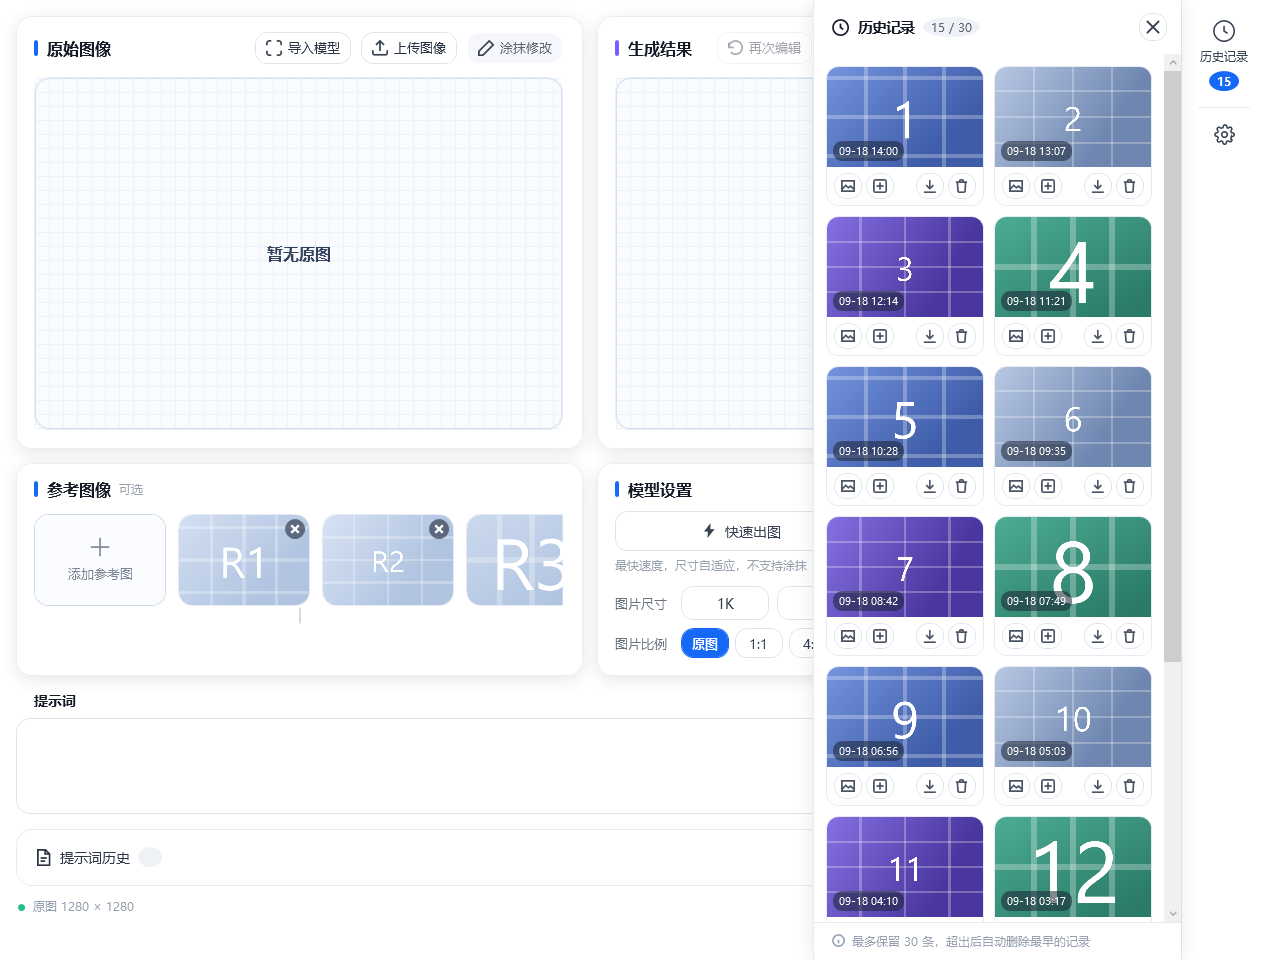
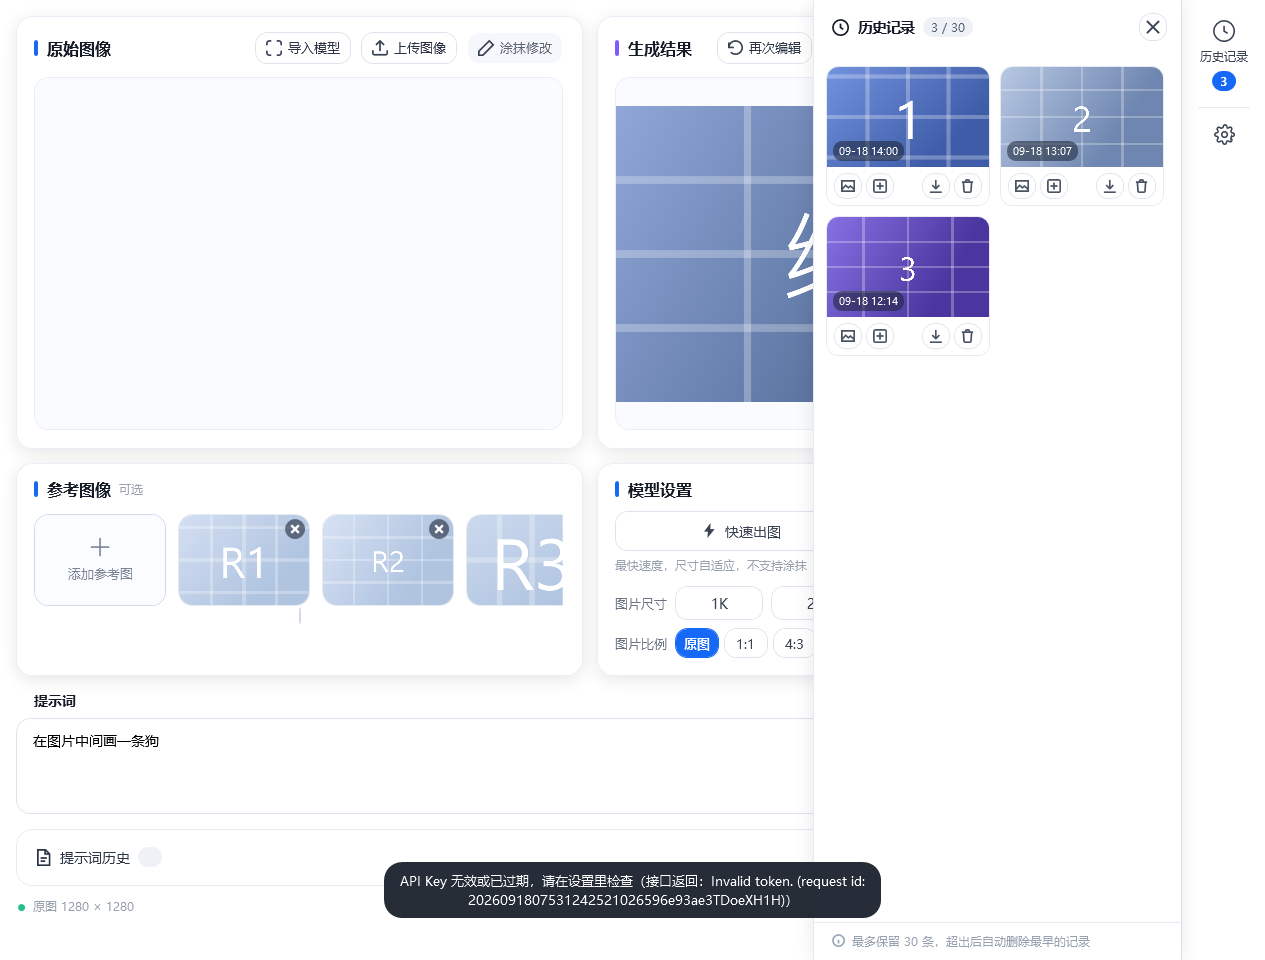
Fix history cards stretched to fill row height
历史抽屉只有 3 条记录时，每张卡片被拉成约 450px 高：UniformGrid 会把可用高度
均分给每一行，条目少的时候行高被撑满，图片和按钮之外留出大片空白。

改用 WrapPanel 按内容高度排列：ItemWidth 由抽屉宽度推出
（368 − 1 左边框 − 14 内边距 = 353，两列各 174，留 5px 余量），
卡片不再被拉伸。条目多时同样更整齐（紧凑行 + 滚动）。

离屏渲染用 3 条记录（即出问题的那种）验证，已归档到
docs/ui-mockup/history-drawer.png。

diff --git a/Views/AIRenderWindow.xaml b/Views/AIRenderWindow.xaml
@@ -1351,7 +1351,12 @@
                         <ItemsControl ItemsSource="{Binding GenerationHistory}" Margin="7,12,7,12">
                             <ItemsControl.ItemsPanel>
                                 <ItemsPanelTemplate>
-                                    <UniformGrid Columns="2"/>
+                                    <!-- 用 WrapPanel 而不是 UniformGrid：UniformGrid 把可用高度均分给每一行，
+                                         条目少的时候（比如 3 条 = 2 行）每张卡片会被拉得很高，
+                                         图片和按钮之外留出大片空白。WrapPanel 按内容高度排，不拉伸。
+                                         ItemWidth 由抽屉宽度 368 推出来：368 − 1(左框) − 14(内边距) = 353，
+                                         两列各占 174 后留 5px 余量。 -->
+                                    <WrapPanel Orientation="Horizontal" ItemWidth="174"/>
                                 </ItemsPanelTemplate>
                             </ItemsControl.ItemsPanel>
                             <ItemsControl.ItemTemplate>
